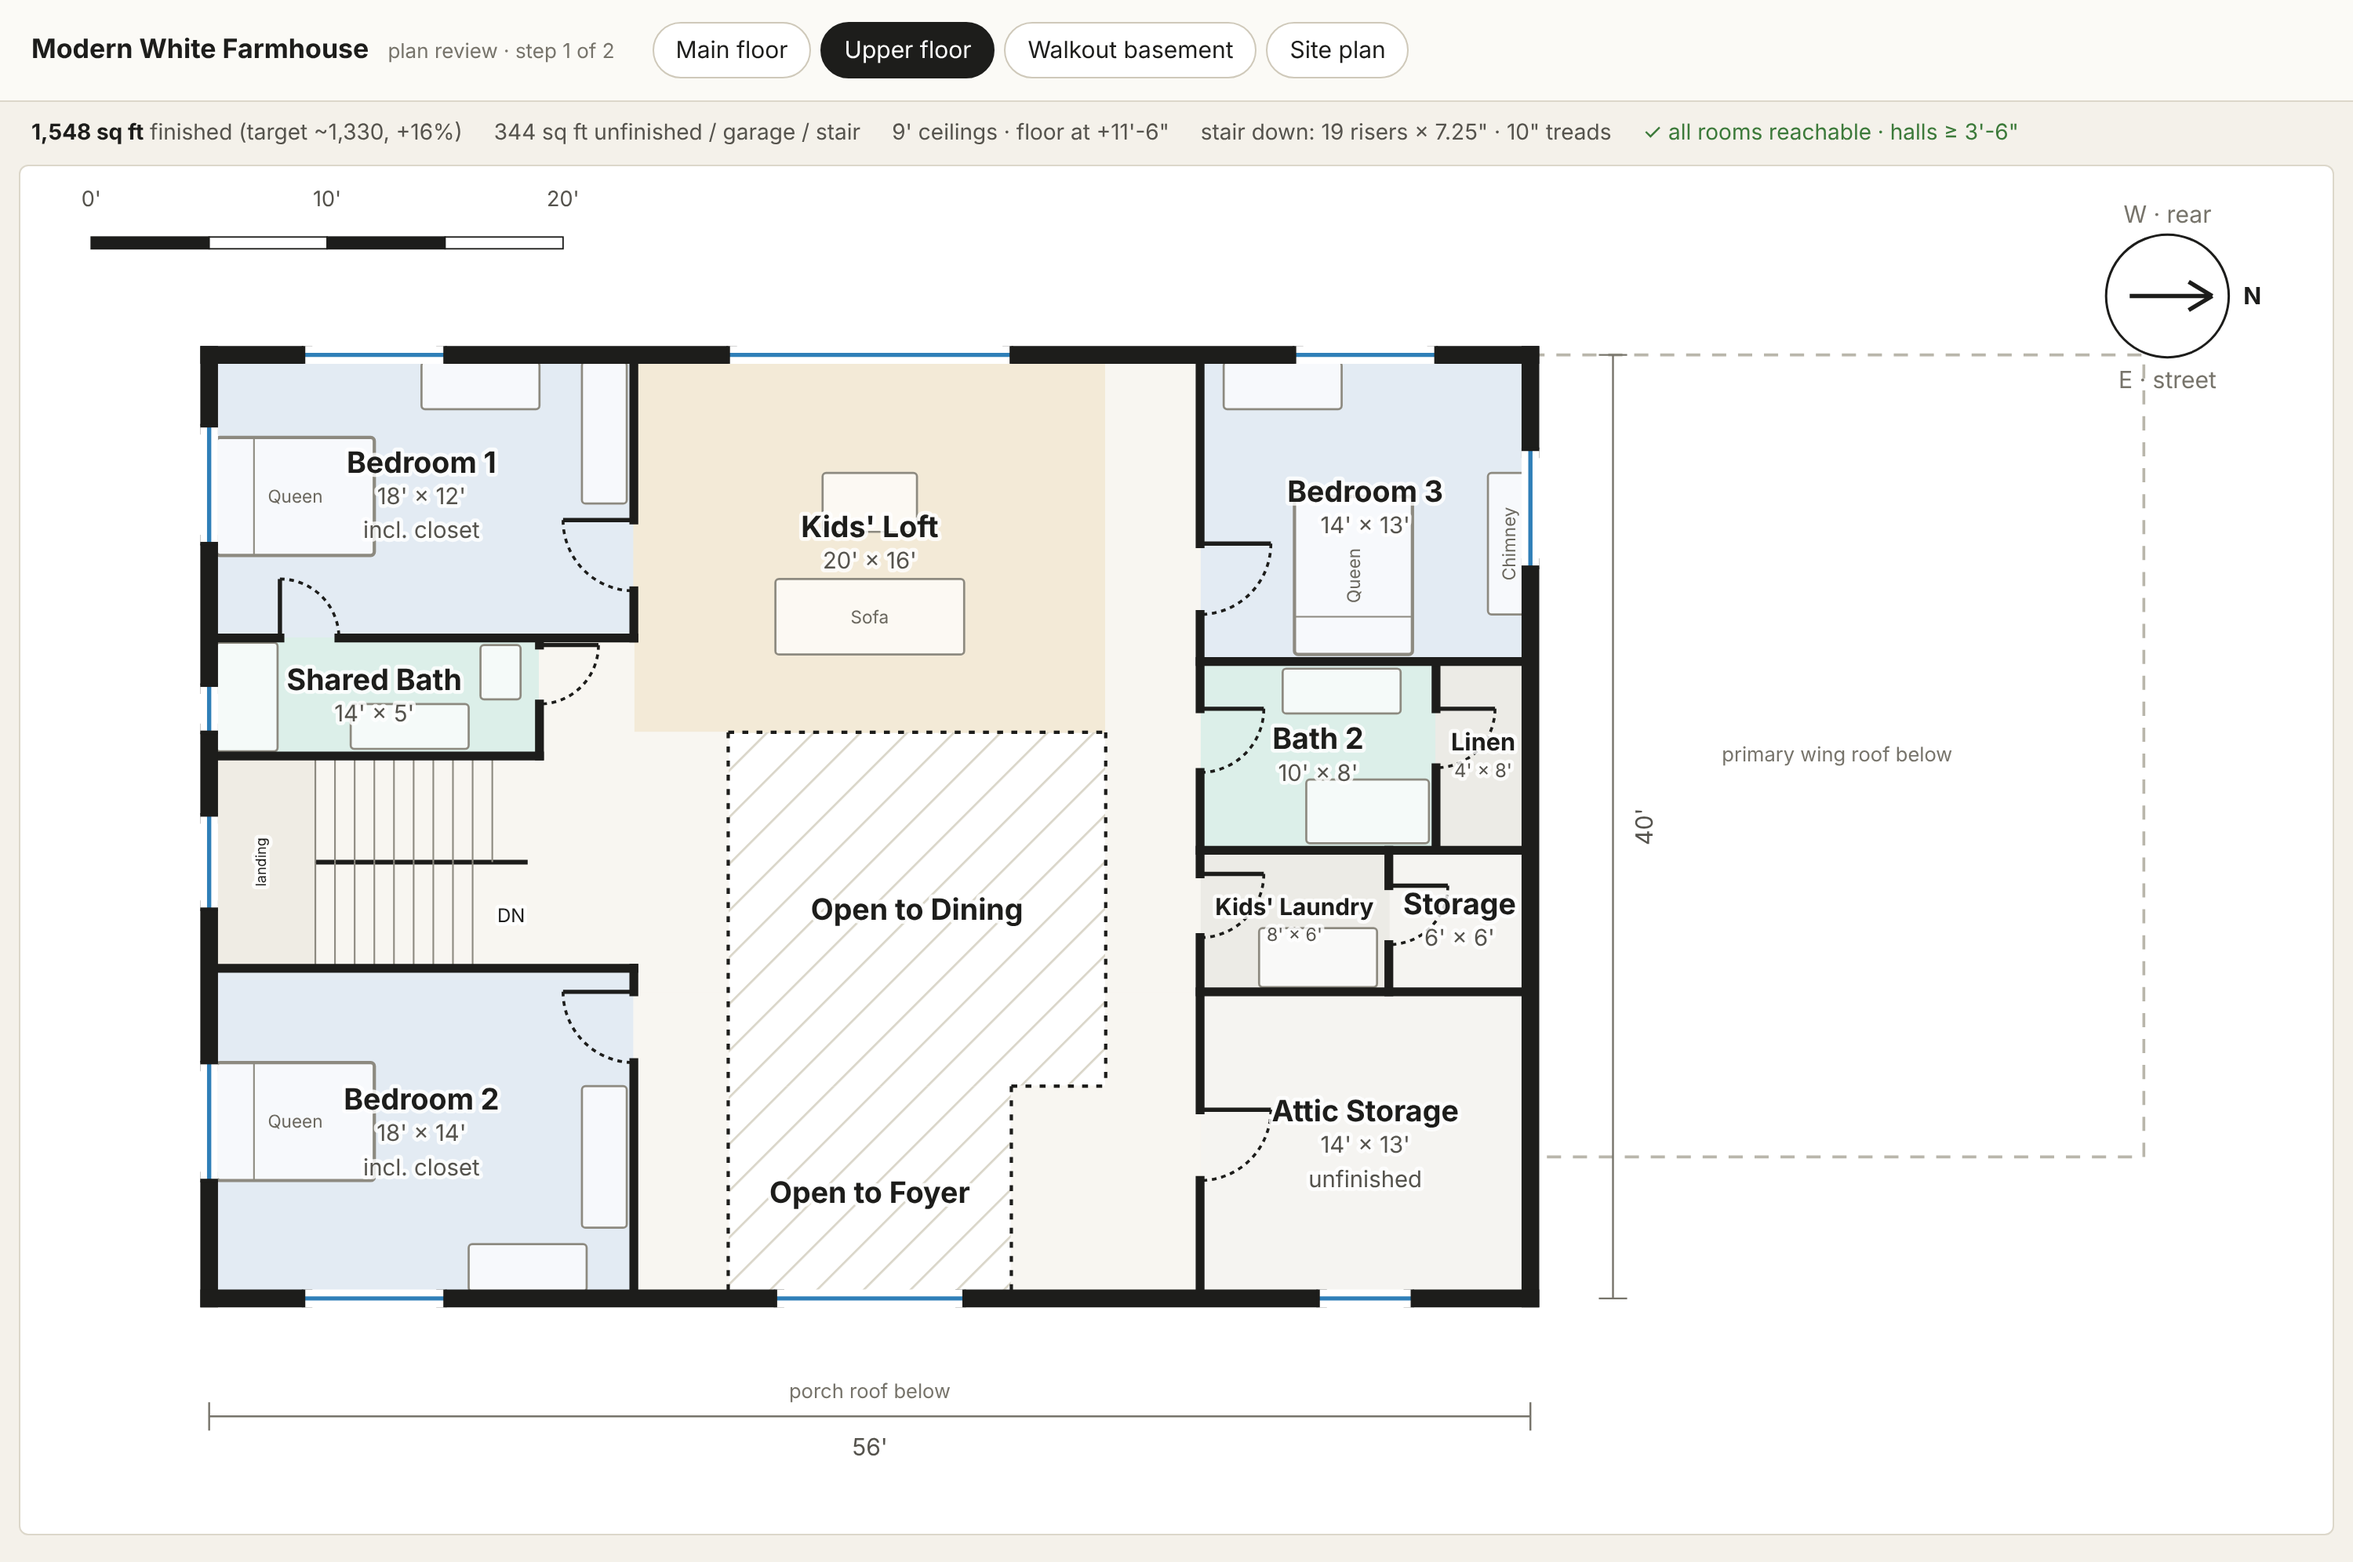
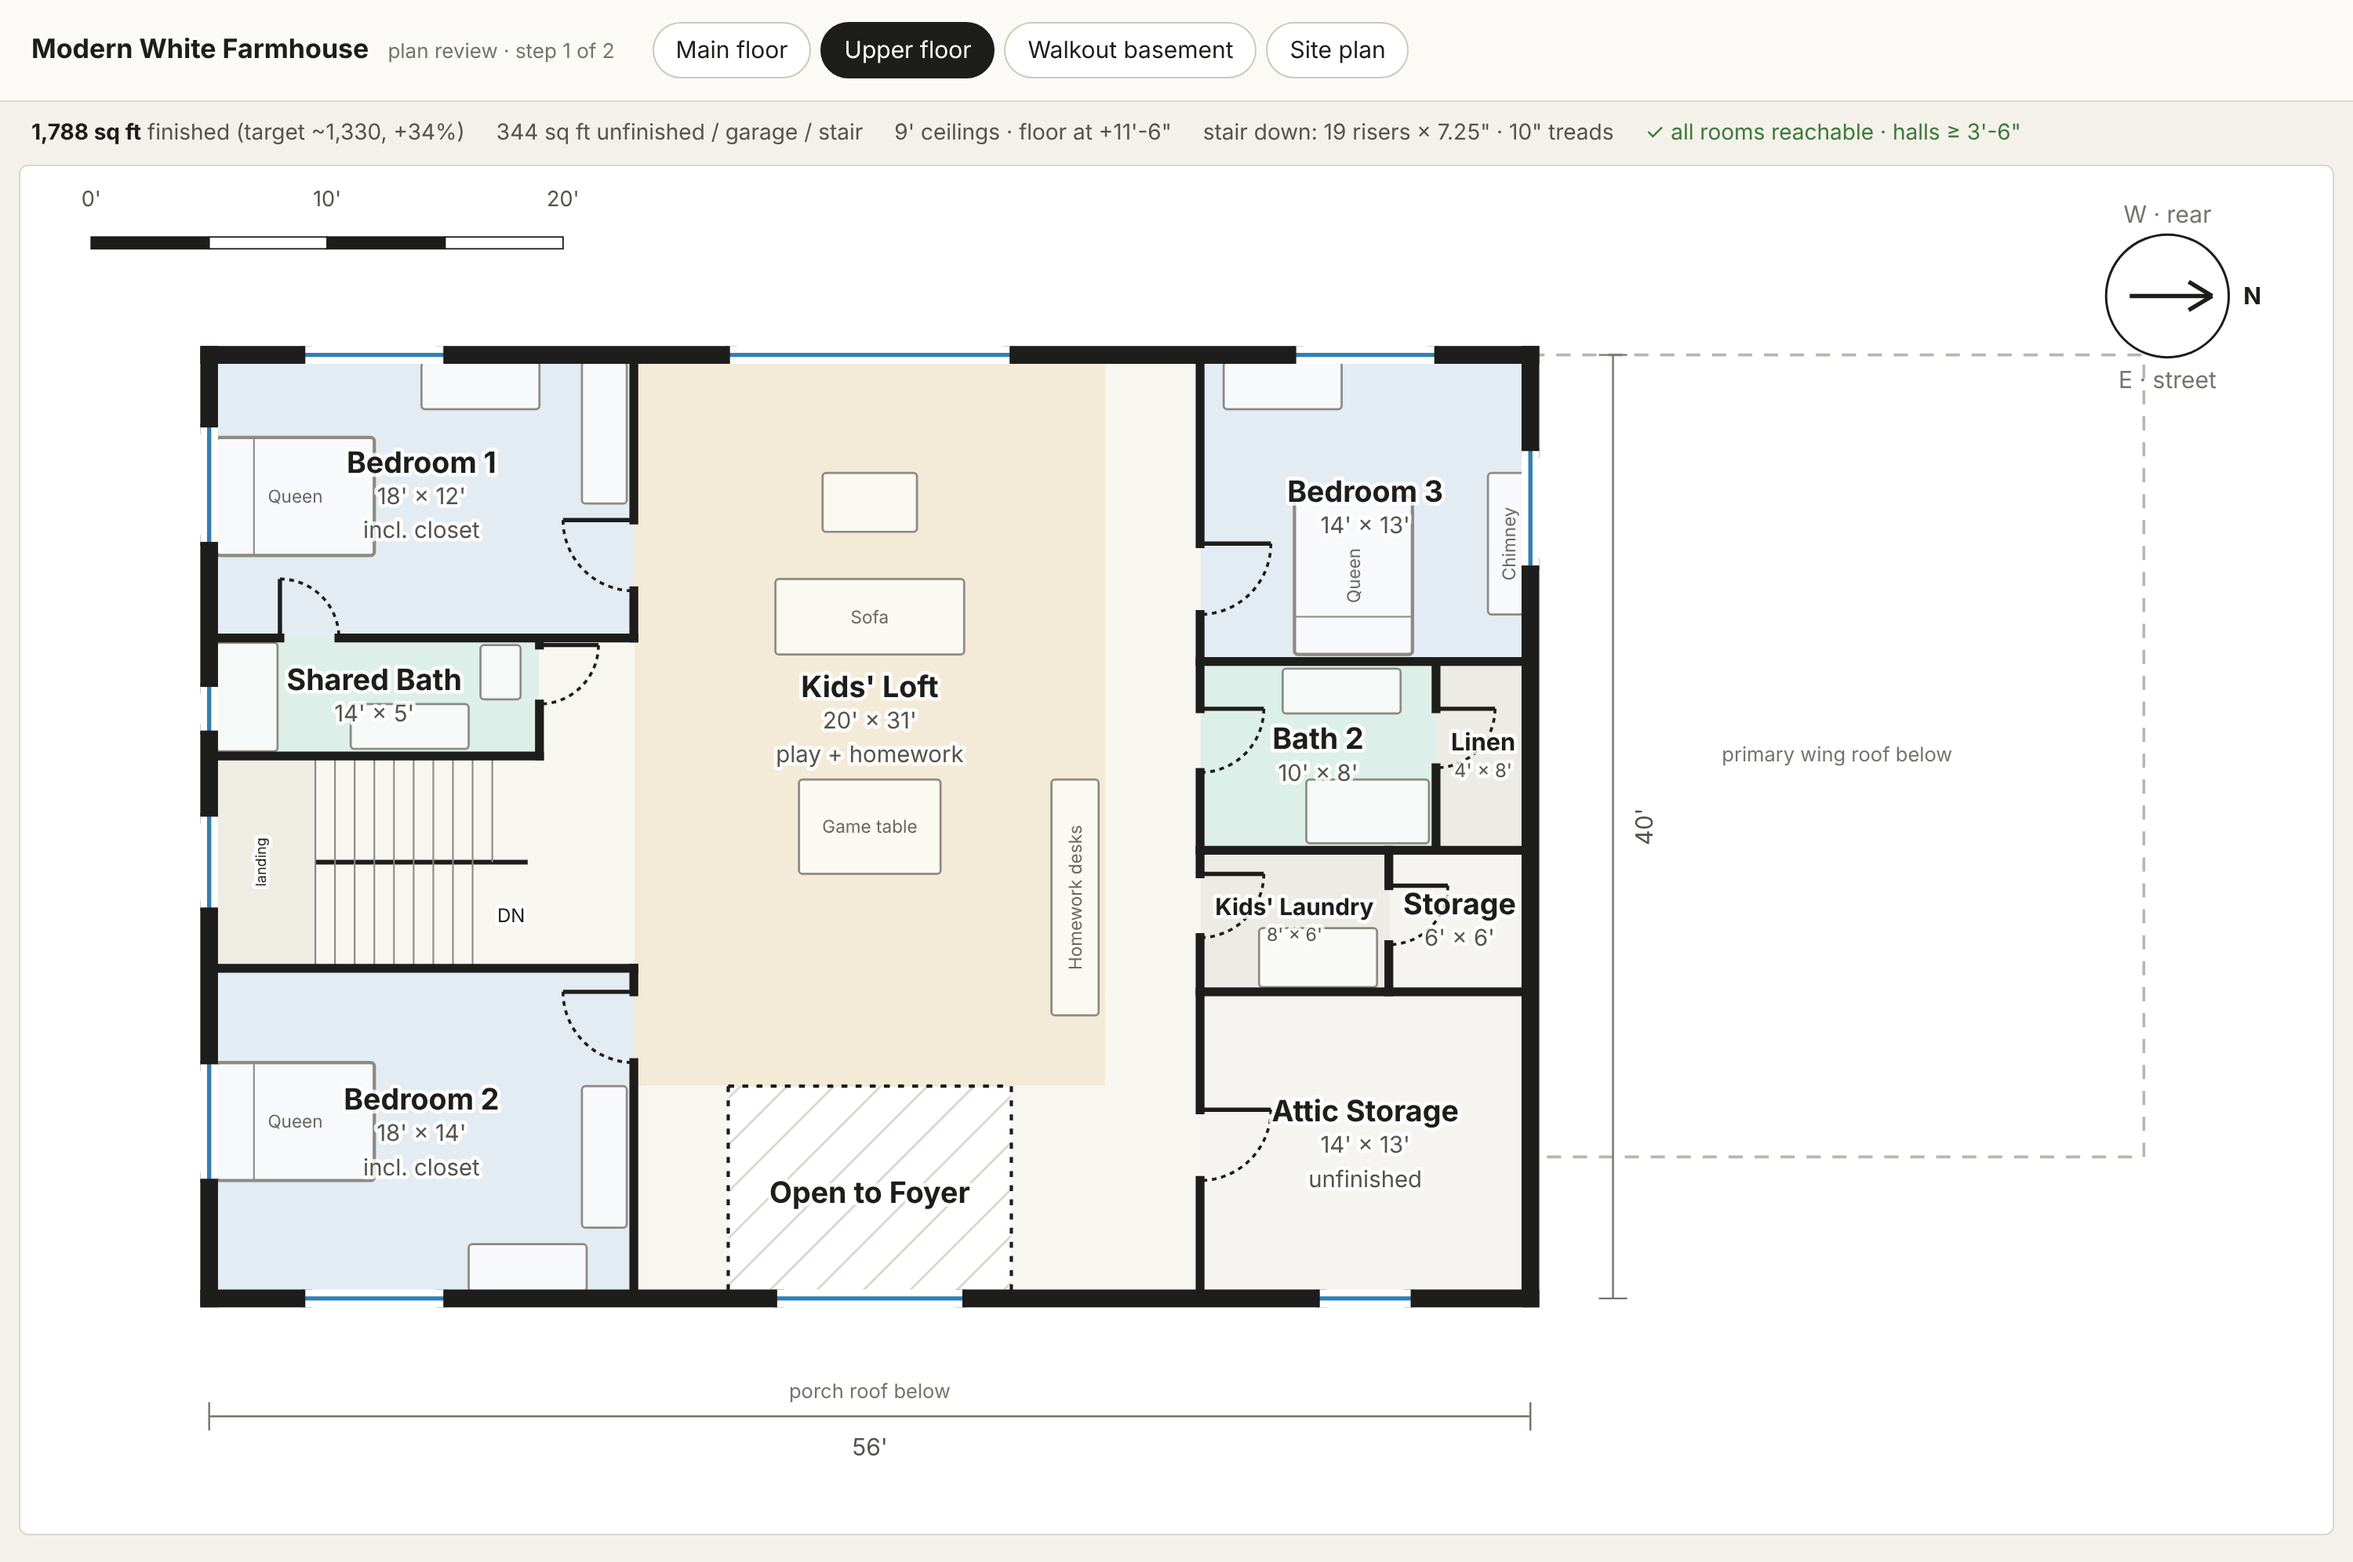
Close over the dining room; loft extends over it
- Dining gets a 10 ft flat ceiling like the living room.
- Kids' loft grows to 20 x 31 with a game table and homework desks; only the
  foyer stays open to above, with a railing on the loft side.

Claude-Session: https://claude.ai/code/session_01XD9YHSFEoQqE2SWjbwMSnV

diff --git a/house-model/src/config/house.js b/house-model/src/config/house.js
@@ -93,9 +93,9 @@ export const floors = {
       { id: 'kitchen', name: 'Kitchen',     use: 'living', x: 16, y: 0,  w: 20, d: 16 },
       { id: 'living',  name: 'Living Room', use: 'living', x: 36, y: 0,  w: 20, d: 16,
         note: "10' flat ceiling" },
-      // — center: dining (open to the loft above), foyer, coat —
+      // — center: dining, foyer (open to above), coat —
       { id: 'dining', name: 'Dining',       use: 'living', x: 18, y: 16, w: 20, d: 15,
-        vaulted: true, note: 'open to above' },
+        note: "10' flat ceiling" },
       { id: 'foyer',  name: 'Foyer',        use: 'circ',   x: 22, y: 31, w: 12, d: 9,
         vaulted: true, note: 'open to above' },
       { id: 'coat',   name: 'Coat',         use: 'service', x: 34, y: 31, w: 4, d: 9 },
@@ -239,8 +239,9 @@ export const floors = {
       { id: 'bed2',   name: 'Bedroom 2', use: 'bed',  x: 0,  y: 26, w: 18, d: 14, note: 'incl. closet' },
       { ...STAIR_BOX, finished: false },
       // — center: loft at the rear, open to the living room and foyer below —
-      { id: 'loft',       name: "Kids' Loft",          use: 'living', x: 18, y: 0,  w: 20, d: 16 },
-      { id: 'diningVoid', name: 'Open to Dining',      use: 'void',   x: 22, y: 16, w: 16, d: 15, void: true },
+      // dining below is closed over; the loft runs front-to-back over it
+      { id: 'loft',       name: "Kids' Loft",          use: 'living', x: 18, y: 0,  w: 20, d: 31,
+        note: 'play + homework' },
       { id: 'foyerVoid',  name: 'Open to Foyer',       use: 'void',   x: 22, y: 31, w: 12, d: 9,  void: true },
       // — right: bedroom 3, bath, laundry, attic, off a 4 ft hall —
       { id: 'bed3',     name: 'Bedroom 3',     use: 'bed',     x: 42, y: 0,  w: 14, d: 13 },
@@ -250,13 +251,11 @@ export const floors = {
       { id: 'storage',  name: 'Storage',       use: 'service', x: 50, y: 21, w: 6,  d: 6, finished: false },
       { id: 'attic',    name: 'Attic Storage', use: 'service', x: 42, y: 27, w: 14, d: 13, finished: false, note: 'unfinished' },
     ],
-    openPlan: [['loft', '_hall'], ['diningVoid', 'foyerVoid'], ['stair', '_hall']],
+    openPlan: [['loft', '_hall'], ['stair', '_hall']],
     openings: [
       // guard rails around the open-to-below areas
-      { kind: 'railing', on: 'y', at: 16, from: 22, to: 38 },     // loft overlooks the dining room
-      { kind: 'railing', on: 'x', at: 22, from: 16, to: 40 },     // left walkway
-      { kind: 'railing', on: 'x', at: 38, from: 16, to: 31 },     // right-hand gallery
-      { kind: 'railing', on: 'y', at: 31, from: 34, to: 38 },
+      { kind: 'railing', on: 'y', at: 31, from: 22, to: 34 },     // loft overlooks the foyer
+      { kind: 'railing', on: 'x', at: 22, from: 31, to: 40 },
       { kind: 'railing', on: 'x', at: 34, from: 31, to: 40 },
       // doors — left
       { kind: 'door', on: 'x', at: 18, from: 7,  to: 10, swing: -1 },        // bed 1
@@ -297,6 +296,8 @@ export const floors = {
       { type: 'chimney', x: 54.2, y: 5, w: 1.8, d: 6, h: 9, label: 'Chimney' },  // from the living-room fireplace
       { type: 'sofa',  x: 24, y: 9.5, w: 8, d: 3.2, h: 2.8, faces: '-y', label: 'Sofa' },
       { type: 'table', x: 26, y: 5,   w: 4, d: 2.5, h: 1.4 },
+      { type: 'table', x: 25, y: 18,  w: 6, d: 4,   h: 2.5, chairs: 6, label: 'Game table' },
+      { type: 'desk',  x: 35.7, y: 18, w: 2, d: 10, h: 2.5, label: 'Homework desks' },
       { type: 'tub',     x: 0.3,  y: 12.2, w: 2.6, d: 4.6, h: 1.8 },
       { type: 'counter', x: 6,    y: 14.8, w: 5,   d: 1.9, h: 3 },
       { type: 'toilet',  x: 11.5, y: 12.3, w: 1.7, d: 2.3, h: 1.4 },
